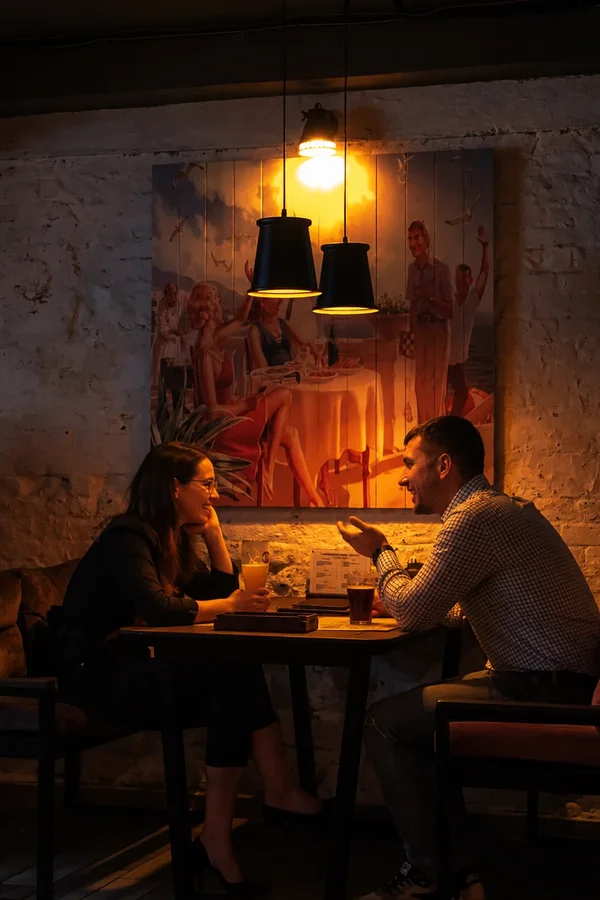
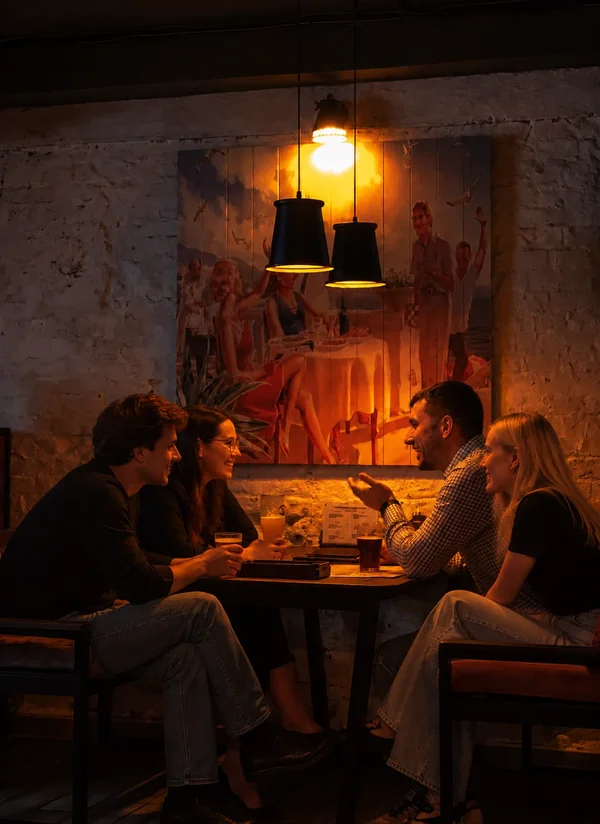
Úvod: fotka štvorice pri stole, na mobile sa v galérii zobrazuje ona

diff --git a/index.html b/index.html
@@ -21,7 +21,7 @@
   <link rel="preload" href="fonts/texgyreadventor-bold.woff2" as="font" type="font/woff2" crossorigin>
   <link rel="icon" type="image/png" href="favicon.png?v=3">
   <link rel="apple-touch-icon" href="img/apple-touch-icon.png?v=3">
-  <link rel="stylesheet" href="styles.css?v=275">
+  <link rel="stylesheet" href="styles.css?v=276">
   <script src="consent.js?v=2" defer></script>
 </head>
 <body>
@@ -89,7 +89,7 @@
           <p class="lead">Je čas zmeniť pravidlá zoznamovania. Spoznaj nových ľudí cez zábavné aktivity na spoločných eventoch. Vymeň appky za zážitok, čo má zmysel.</p>
         </div>
         <div class="gallery">
-          <img class="g-tall" src="img/rozhovor-na-gauci.webp?v=2" srcset="img/rozhovor-na-gauci-600.webp?v=2 600w, img/rozhovor-na-gauci.webp?v=2 1000w" sizes="(max-width: 760px) 100vw, 40vw" alt="Muž a žena sa rozprávajú a smejú pri stole v bare" width="1000" height="1500" loading="lazy">
+          <img class="g-tall" src="img/rozhovor-na-gauci.webp?v=3" srcset="img/rozhovor-na-gauci-600.webp?v=3 600w, img/rozhovor-na-gauci.webp?v=3 1070w" sizes="(max-width: 760px) 100vw, 40vw" alt="Štyria ľudia sa rozprávajú a smejú pri stole v bare" width="1070" height="1470" loading="lazy">
           <img class="g-wide" src="img/pripitok-bar.webp?v=2" srcset="img/pripitok-bar-800.webp?v=2 800w, img/pripitok-bar.webp?v=2 1024w" sizes="(max-width: 760px) 100vw, 50vw" alt="Traja ľudia sa smejú pri stole v kaviarni" width="1024" height="683" style="object-position:50% 25%" loading="lazy">
           <img src="img/rozhovor-bar.webp" srcset="img/rozhovor-bar-800.webp 800w, img/rozhovor-bar.webp 1400w" sizes="(max-width: 760px) 100vw, 50vw" alt="Rozhovor pri barovom pulte" width="1400" height="934" loading="lazy">
           <img src="img/pripitok-kava.webp?v=2" srcset="img/pripitok-kava-600.webp?v=2 600w, img/pripitok-kava.webp?v=2 1100w" sizes="(max-width: 760px) 100vw, 40vw" alt="Žena sa usmieva počas rozhovoru v bare" width="1100" height="1100" loading="lazy">

diff --git a/styles.css b/styles.css
@@ -1692,7 +1692,7 @@ h1.dict-term { font-size: clamp(2.5rem, 6.5vw, 5rem); margin-bottom: 0; }
 }
 @media (min-width: 901px) { .podium-block { align-items: stretch; } .podium-block .hero-photo.podium-photo { display: flex; flex-direction: column; justify-content: space-between; } .podium-block .podium-photo .ifacts-2x2 { margin-top: 24px; } }
 .show-intro-light .show-intro-photo img { aspect-ratio: 4 / 5; object-position: center 30%; } @media (max-width: 900px) { .show-intro-light .show-intro-photo img { aspect-ratio: 4 / 4.4; } }
-@media (max-width: 700px) { .gallery { display: block; } .gallery img { display: none; } .gallery img.g-wide { display: block; height: auto; aspect-ratio: 4 / 3; } }
+@media (max-width: 700px) { .gallery { display: block; } .gallery img { display: none; } .gallery img.g-tall { display: block; height: auto; aspect-ratio: 4 / 5; object-position: 50% 75%; } }
 /* Pätička: právne odkazy bez podčiarknutia */
 .footer-legal a { text-decoration: none; color: inherit; }
 .footer-legal a:hover { opacity: .75; }

diff --git a/chystame.html b/chystame.html
@@ -21,7 +21,7 @@
   <link rel="preload" href="fonts/texgyreadventor-bold.woff2" as="font" type="font/woff2" crossorigin>
   <link rel="icon" type="image/png" href="favicon.png?v=3">
   <link rel="apple-touch-icon" href="img/apple-touch-icon.png?v=3">
-  <link rel="stylesheet" href="styles.css?v=275">
+  <link rel="stylesheet" href="styles.css?v=276">
   <script src="consent.js?v=2" defer></script>
 </head>
 <body>

diff --git a/clanok-30-minut-a-dost.html b/clanok-30-minut-a-dost.html
@@ -21,7 +21,7 @@
   <link rel="preload" href="fonts/texgyreadventor-bold.woff2" as="font" type="font/woff2" crossorigin>
   <link rel="icon" type="image/png" href="favicon.png?v=3">
   <link rel="apple-touch-icon" href="img/apple-touch-icon.png?v=3">
-  <link rel="stylesheet" href="styles.css?v=275">
+  <link rel="stylesheet" href="styles.css?v=276">
   <script src="consent.js?v=2" defer></script>
 </head>
 <body>

diff --git a/clanok-aha-moment-pri-tretom-drinku.html b/clanok-aha-moment-pri-tretom-drinku.html
@@ -21,7 +21,7 @@
   <link rel="preload" href="fonts/texgyreadventor-bold.woff2" as="font" type="font/woff2" crossorigin>
   <link rel="icon" type="image/png" href="favicon.png?v=3">
   <link rel="apple-touch-icon" href="img/apple-touch-icon.png?v=3">
-  <link rel="stylesheet" href="styles.css?v=275">
+  <link rel="stylesheet" href="styles.css?v=276">
   <script src="consent.js?v=2" defer></script>
 </head>
 <body>

diff --git a/clanok-ahoj-ako-je-mrtve.html b/clanok-ahoj-ako-je-mrtve.html
@@ -21,7 +21,7 @@
   <link rel="preload" href="fonts/texgyreadventor-bold.woff2" as="font" type="font/woff2" crossorigin>
   <link rel="icon" type="image/png" href="favicon.png?v=3">
   <link rel="apple-touch-icon" href="img/apple-touch-icon.png?v=3">
-  <link rel="stylesheet" href="styles.css?v=275">
+  <link rel="stylesheet" href="styles.css?v=276">
   <script src="consent.js?v=2" defer></script>
 </head>
 <body>

diff --git a/clanok-co-je-rande.html b/clanok-co-je-rande.html
@@ -21,7 +21,7 @@
   <link rel="preload" href="fonts/texgyreadventor-bold.woff2" as="font" type="font/woff2" crossorigin>
   <link rel="icon" type="image/png" href="favicon.png?v=3">
   <link rel="apple-touch-icon" href="img/apple-touch-icon.png?v=3">
-  <link rel="stylesheet" href="styles.css?v=275">
+  <link rel="stylesheet" href="styles.css?v=276">
   <script src="consent.js?v=2" defer></script>
 </head>
 <body>

diff --git a/clanok-kto-co-je-single.html b/clanok-kto-co-je-single.html
@@ -21,7 +21,7 @@
   <link rel="preload" href="fonts/texgyreadventor-bold.woff2" as="font" type="font/woff2" crossorigin>
   <link rel="icon" type="image/png" href="favicon.png?v=3">
   <link rel="apple-touch-icon" href="img/apple-touch-icon.png?v=3">
-  <link rel="stylesheet" href="styles.css?v=275">
+  <link rel="stylesheet" href="styles.css?v=276">
   <script src="consent.js?v=2" defer></script>
 </head>
 <body>

diff --git a/clanok-myty-single-po-tridsiatke.html b/clanok-myty-single-po-tridsiatke.html
@@ -21,7 +21,7 @@
   <link rel="preload" href="fonts/texgyreadventor-bold.woff2" as="font" type="font/woff2" crossorigin>
   <link rel="icon" type="image/png" href="favicon.png?v=3">
   <link rel="apple-touch-icon" href="img/apple-touch-icon.png?v=3">
-  <link rel="stylesheet" href="styles.css?v=275">
+  <link rel="stylesheet" href="styles.css?v=276">
   <script src="consent.js?v=2" defer></script>
 </head>
 <body>

diff --git a/clanok-stol-pre-jedneho.html b/clanok-stol-pre-jedneho.html
@@ -21,7 +21,7 @@
   <link rel="preload" href="fonts/texgyreadventor-bold.woff2" as="font" type="font/woff2" crossorigin>
   <link rel="icon" type="image/png" href="favicon.png?v=3">
   <link rel="apple-touch-icon" href="img/apple-touch-icon.png?v=3">
-  <link rel="stylesheet" href="styles.css?v=275">
+  <link rel="stylesheet" href="styles.css?v=276">
   <script src="consent.js?v=2" defer></script>
 </head>
 <body>

diff --git a/cookies.html b/cookies.html
@@ -21,7 +21,7 @@
   <link rel="preload" href="fonts/texgyreadventor-bold.woff2" as="font" type="font/woff2" crossorigin>
   <link rel="icon" type="image/png" href="favicon.png?v=3">
   <link rel="apple-touch-icon" href="img/apple-touch-icon.png?v=3">
-  <link rel="stylesheet" href="styles.css?v=275">
+  <link rel="stylesheet" href="styles.css?v=276">
   <script src="consent.js?v=2" defer></script>
 </head>
 <body>

diff --git a/listok.html b/listok.html
@@ -24,7 +24,7 @@
   <link rel="preload" href="fonts/texgyreadventor-bold.woff2" as="font" type="font/woff2" crossorigin>
   <link rel="icon" type="image/png" href="favicon.png?v=3">
   <link rel="apple-touch-icon" href="img/apple-touch-icon.png?v=3">
-  <link rel="stylesheet" href="styles.css?v=275">
+  <link rel="stylesheet" href="styles.css?v=276">
   <script src="consent.js?v=2" defer></script>
 </head>
 <body>
